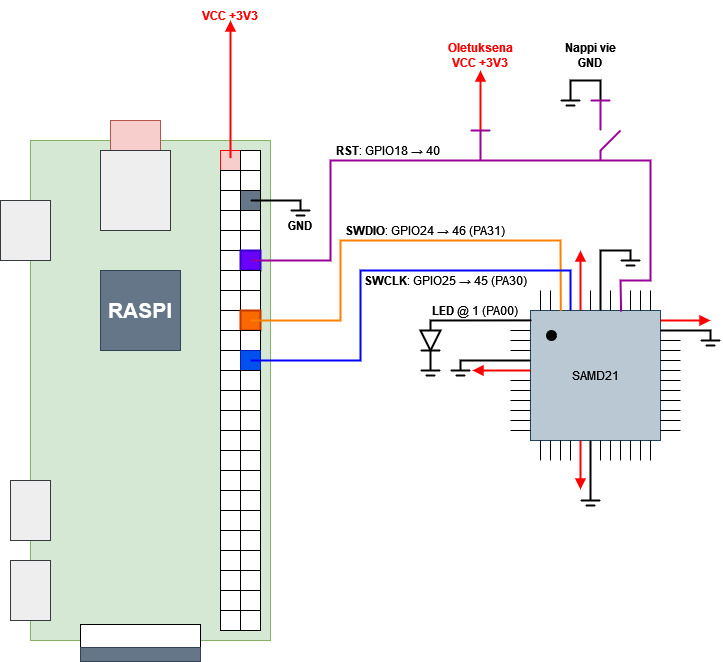
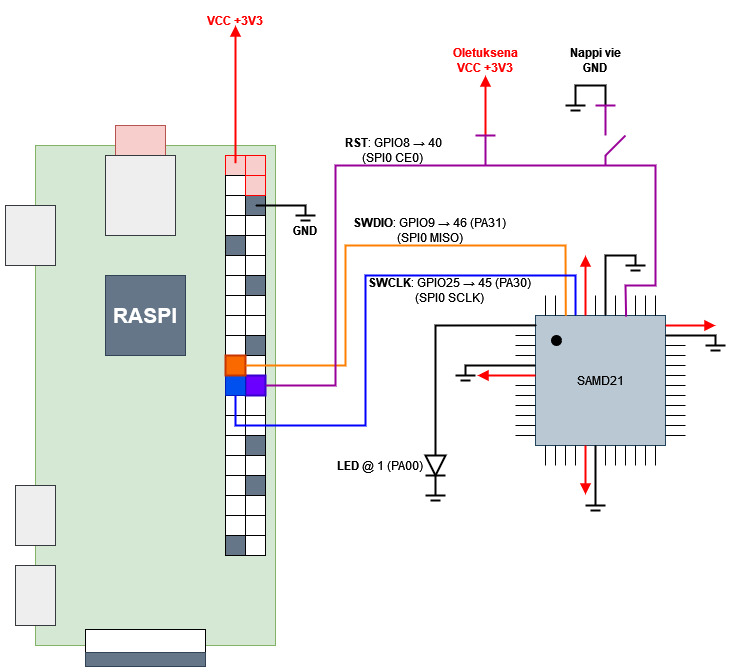
Uudelleensijoittele Raspin pinnit SPI0-väylään (selkeämpi paikka kuin satunnaiset GPIO-kohdat)

diff --git a/README.md b/README.md
@@ -40,13 +40,15 @@ Piuhoitettu versio näyttää suunnilleen tältä
 
 <img src="img/im01_piuhat.jpg" width="700"></img>
 
-Suurin osa piuhojen sotkuisuusluukista tulee siitä, että SAMD21 virroittaa itsensä niin, että joka sivulta lähtee virtapiuha (pinnit 6, 17, 36, 44) ja maapiuha (pinnit 5, 18, 35, 42), [mitkä olisi kaikki suotavaa kytkeä](https://ww1.microchip.com/downloads/aemDocuments/documents/MCU32/ProductDocuments/DataSheets/SAM-D21-DA1-Family-Data-Sheet-DS40001882H.pdf#page=37). Kuvassa ne on nuo punaiset ja valkoiset niput. Nämä on kytketty jännitteentasaajan kautta Raspin 3V3-paikkaan ja maahan (Raspi-pinnit 1 ja 6). Näiden lisäksi pinni 45 (`PA30`, SWCLK) menee raspin pinniin 22 (`GPIO25`), pinni 46 (`PA31`, SWDIO) menee raspin pinniin 18 (`GPIO24`) ja pinni 40 (`~RST`) on effektiivisesti sidottu käyttöjännitteeseen.
+Suurin osa piuhojen sotkuisuusluukista tulee siitä, että SAMD21 virroittaa itsensä niin, että joka sivulta lähtee virtapiuha (pinnit 6, 17, 36, 44) ja maapiuha (pinnit 5, 18, 35, 42), [mitkä olisi kaikki suotavaa kytkeä](https://ww1.microchip.com/downloads/aemDocuments/documents/MCU32/ProductDocuments/DataSheets/SAM-D21-DA1-Family-Data-Sheet-DS40001882H.pdf#page=37). Kuvassa ne on nuo punaiset ja valkoiset niput. Nämä on kytketty jännitteentasaajan kautta Raspin 3V3-paikkaan ja maahan (Raspi-pinnit 1 ja 6). Näiden lisäksi raspin SPI-väylä SPI0 on valjastettu ohjelmointikäyttöön: `SPI0 SCLK` (`GPIO11`) menee SAMD-pinniin 45 (`PA30`, SWCLK), `SPI0 MISO` (`GPIO 9`) pinniin 46 (`PA31`, SWDIO) ja `SPI0 CE0`pinniin 40 (`~RST`), joskin se on effektiivisesti sidottu käyttöjännitteeseen.
 piiroksena homma on huomattavasti selkeämpi:
 
 <img src="img/im02_skeema.jpg" width="700"></img>
 
+Motiivina `SPI0`-väylään sitomisessa on se, että pinnipaikat on helppo muistaa kun ne on sijoitettu suunnilleen samaan funktion fyysiseen paikkaan. Lisäksi suunnitelmana on tehdä ohjelmointihattu, jolla saisi ohjelmoitua mahdollisimman monia erilaisia siruja. Sen kannalta on kiva jos eri kohteiden piuhat lähtee samasta osoitteesta, ja että periaatteessa hatun kautta voi suoraan ajella ihan suoria `SPI`-komentojakin.
+
 Kuten edellä linkatuissa mainitaankin, openOCD etsii oletuksena skriptitiedostoa `openocd.cfg`, aloittaen kutsukansiosta. Flagilla `-f` saa speksattua jonkun muun skriptin ajettavaksi. Eka sanity check piuhoituksissa on katsoa, vastaako ohjelmoitava siru mitään listauskomentosarjaan:
-```cfg
+```
 # target.cfg
 source [find atsamd21.cfg]
 set transport swd
